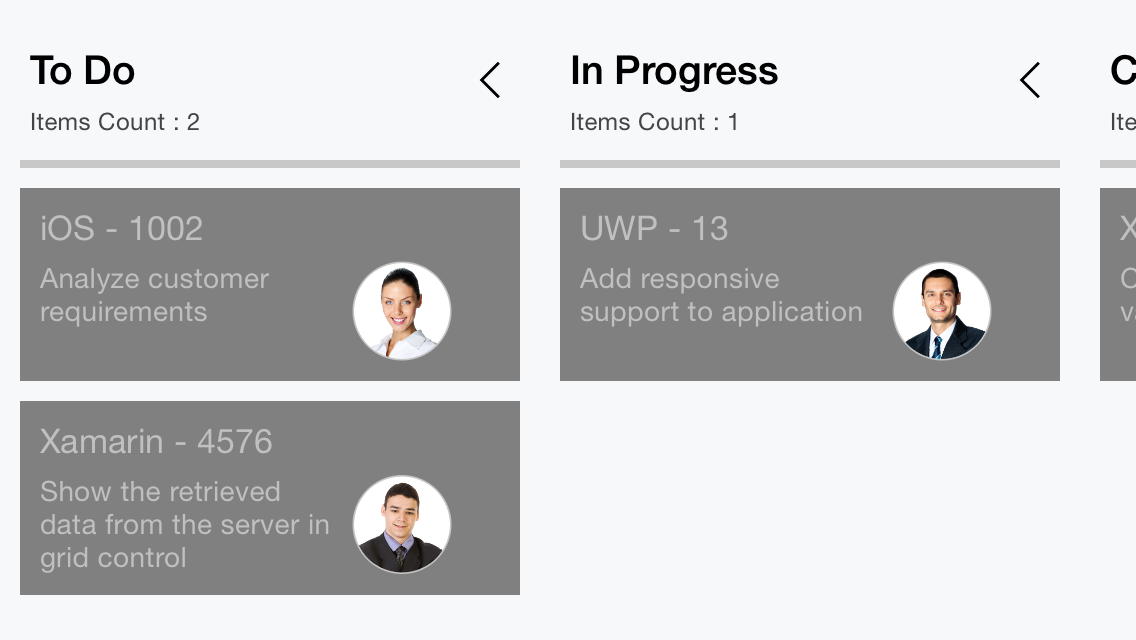
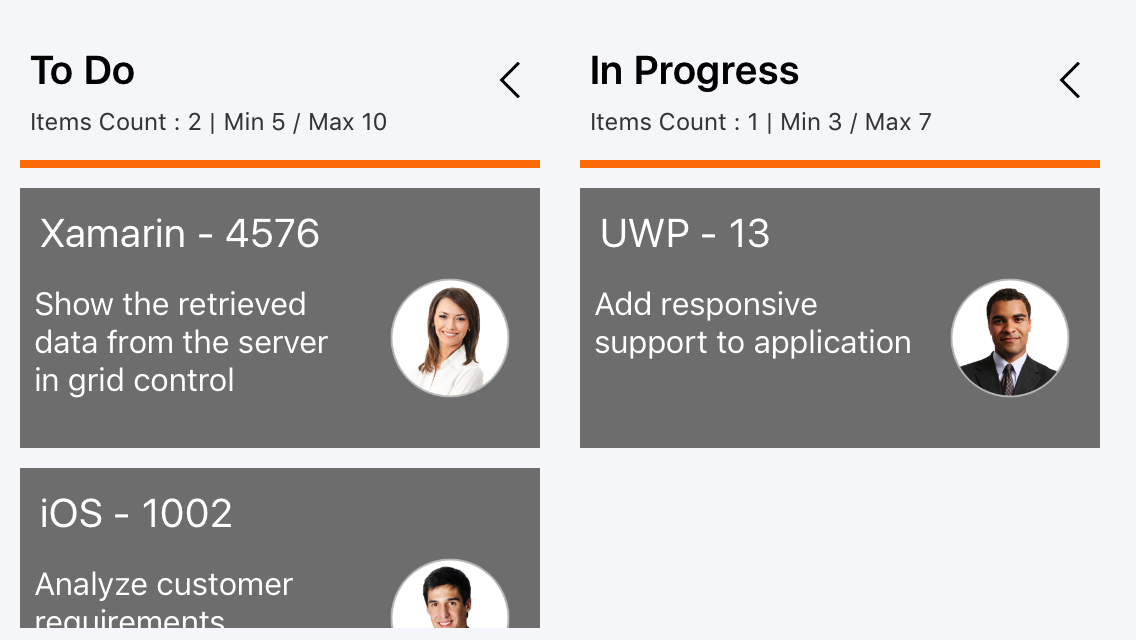
Card template added

diff --git a/Xamarin-iOS/SfKanban/Cards.md b/Xamarin-iOS/SfKanban/Cards.md
@@ -49,3 +49,17 @@ kanban.IndicatorColorPalette = colormodels;
 
 ![](Kanban_images/CardCustomization.png)
 
+## Template
+
+You can replace the entire card template with your own design using ['SfKanban.KanbanDelegate'](http://help.syncfusion.com/cr/cref_files/xamarin-ios/sfkanban/Syncfusion.SfKanban.iOS~Syncfusion.SfKanban.iOS.KanbanDelegate.html) 's [GetItemViewCell](http://help.syncfusion.com/cr/cref_files/xamarin-ios/sfkanban/Syncfusion.SfKanban.iOS~Syncfusion.SfKanban.iOS.KanbanDelegate~GetItemViewCell.html) override method . The following code snippet and screenshot illustrates this.
+
+
+{% highlight C# %}
+
+
+
+{% endhighlight %}
+
+![](SfKanban_images/CardTemplate.png)
+
+
